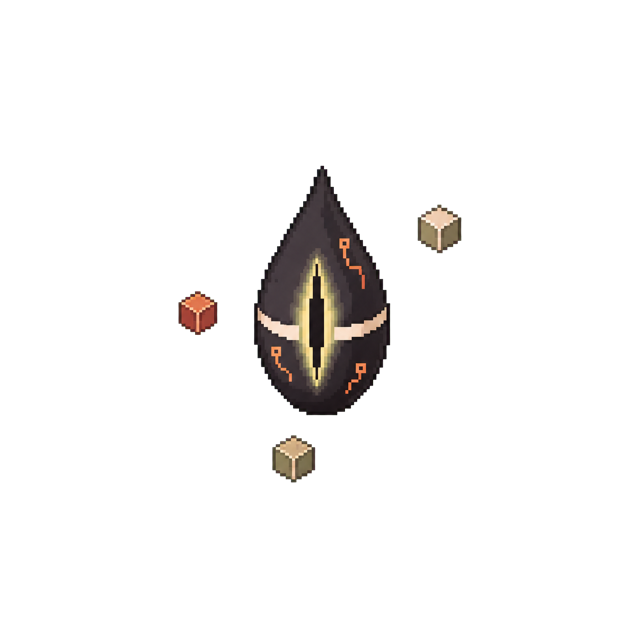
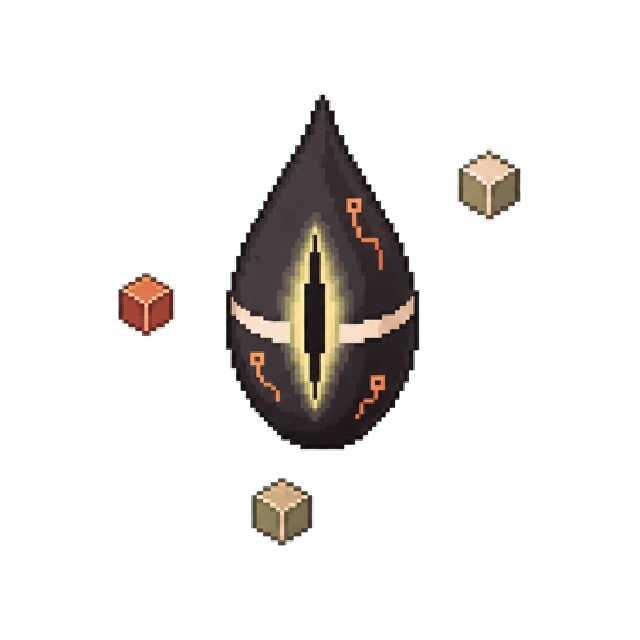
evolution: clean stage sprites, sharpen sealed form names, and save forms review
- Clean 17 chroma-key speckles and outer green fringe on stage-09.png and
  pad it from 568x640 to 640x640 so all 19 sprites share a square canvas.
- Nearest-neighbor rescale stage-18.png (The Singularity, +site/public
  stage-18.webp) and stage-01.png (Bitling) for stronger visual presence.
- Eliminate repeated prefixes (Context x3, Token x2, -ling x2) and late-
  game sci-fi drift across 9 sealed forms (03 Prompt Imp, 04 Cache Cub,
  05 Vector Lynx, 07 Agent Hound, 11 Attention Seraph, 12 Latent Core,
  15 Tensor Weaver, 16 Lattice Spire, 17 Gradient Engine); keep all 4
  public forms locked.
- Update manifest.json hashes/dimensions, spec table, dashboard sample
  screenshot, tests, CHANGELOG.md, and save the full review + future art
  redraw briefs in docs/evolution-forms-review-2026-11-24.md.

Changed region(s): [[0.1875, 0.1562, 0.8125, 0.875]]

diff --git a/internal/browsercheck/browsercheck_test.go b/internal/browsercheck/browsercheck_test.go
@@ -794,7 +794,7 @@ const freshnessInvariantJS = `(() => {
 
 // creatureArtInvariantJS verifies the hero .creature-art LCP image loads with
 // explicit manifest dimensions, fetchpriority="high", and zero aspect-ratio
-// distortion across all gated viewports (both 640x640 and stage-09 568x640).
+// distortion across all gated viewports (640x640 across all 19 stages).
 const creatureArtInvariantJS = `(() => {
 	const problems = [];
 	const img = document.querySelector('img.creature-art');
@@ -1276,9 +1276,9 @@ func TestDashboardBrowserSmokeAndAccessibility(t *testing.T) {
 		t.Fatalf("could not restore the desktop viewport: %v", err)
 	}
 
-	// Stage 9 (token-titan, stage-09.png) has natural dimensions 568x640
-	// instead of 640x640; verify its explicit width/height attributes and
-	// distortion-free rendering across all gated viewports.
+	// Stage 9 (token-titan, stage-09.png, previously 568x640 and now padded to
+	// 640x640): verify its explicit width/height attributes and distortion-free
+	// rendering across all gated viewports.
 	t.Run("creature-art-stage9", func(t *testing.T) {
 		stage9Store, err := database.Open(filepath.Join(t.TempDir(), "stage9.db"), smokeCatalog())
 		if err != nil {
@@ -2276,7 +2276,7 @@ func TestDashboardBrowserSmokeAndAccessibility(t *testing.T) {
 			return JSON.stringify(problems);
 		})()`)
 
-		// Resume auto-refresh, focus active .activity-cell, ingest +400 -> 1,000 (Stage 3 Promptling).
+		// Resume auto-refresh, focus active .activity-cell, ingest +400 -> 1,000 (Stage 3 Prompt Imp).
 		if _, err := chromedp.Run(ctx, chromedp.Click("#auto-refresh-toggle")); err != nil {
 			t.Fatalf("resume auto-refresh: %v", err)
 		}
@@ -2297,13 +2297,13 @@ func TestDashboardBrowserSmokeAndAccessibility(t *testing.T) {
 				const p = document.querySelector('.creature-panel');
 				const f = document.querySelector('.form-name');
 				const s = document.querySelector('.sessions-panel');
-				return Boolean(c && c.dataset.display === '1,000' && p && p.dataset.stage === '3' && f && f.textContent === 'Promptling' && s && s.textContent.includes('live-sess-3'));
+				return Boolean(c && c.dataset.display === '1,000' && p && p.dataset.stage === '3' && f && f.textContent === 'Prompt Imp' && s && s.textContent.includes('live-sess-3'));
 			})()`))
 			if err == nil && evolved {
 				break
 			}
 			if time.Now().After(deadline) {
-				t.Fatal("auto-update did not evolve creature to Stage 3 Promptling at 1,000 tokens in time")
+				t.Fatal("auto-update did not evolve creature to Stage 3 Prompt Imp at 1,000 tokens in time")
 			}
 			time.Sleep(150 * time.Millisecond)
 		}

diff --git a/internal/evolution/evolution.go b/internal/evolution/evolution.go
@@ -22,21 +22,21 @@ var forms = []Form{
 	{Stage: 0, Slug: "egg", Name: "Egg", lowerThreshold: 0},
 	{Stage: 1, Slug: "bitling", Name: "Bitling", lowerThreshold: 10},
 	{Stage: 2, Slug: "bytelet", Name: "Bytelet", lowerThreshold: 100},
-	{Stage: 3, Slug: "promptling", Name: "Promptling", lowerThreshold: 1_000},
-	{Stage: 4, Slug: "context-cub", Name: "Context Cub", lowerThreshold: 10_000},
-	{Stage: 5, Slug: "token-scout", Name: "Token Scout", lowerThreshold: 100_000},
+	{Stage: 3, Slug: "prompt-imp", Name: "Prompt Imp", lowerThreshold: 1_000},
+	{Stage: 4, Slug: "cache-cub", Name: "Cache Cub", lowerThreshold: 10_000},
+	{Stage: 5, Slug: "vector-lynx", Name: "Vector Lynx", lowerThreshold: 100_000},
 	{Stage: 6, Slug: "code-caster", Name: "Code Caster", lowerThreshold: 1_000_000},
-	{Stage: 7, Slug: "agent-beast", Name: "Agent Beast", lowerThreshold: 10_000_000},
+	{Stage: 7, Slug: "agent-hound", Name: "Agent Hound", lowerThreshold: 10_000_000},
 	{Stage: 8, Slug: "context-dragon", Name: "Context Dragon", lowerThreshold: 100_000_000},
 	{Stage: 9, Slug: "token-titan", Name: "Token Titan", lowerThreshold: 1_000_000_000},
 	{Stage: 10, Slug: "model-eater", Name: "Model Eater", lowerThreshold: 2_000_000_000},
-	{Stage: 11, Slug: "context-deity", Name: "Context Deity", lowerThreshold: 5_000_000_000},
-	{Stage: 12, Slug: "reality-core", Name: "Reality Core", lowerThreshold: 10_000_000_000},
+	{Stage: 11, Slug: "attention-seraph", Name: "Attention Seraph", lowerThreshold: 5_000_000_000},
+	{Stage: 12, Slug: "latent-core", Name: "Latent Core", lowerThreshold: 10_000_000_000},
 	{Stage: 13, Slug: "inference-leviathan", Name: "Inference Leviathan", lowerThreshold: 20_000_000_000},
 	{Stage: 14, Slug: "parameter-colossus", Name: "Parameter Colossus", lowerThreshold: 50_000_000_000},
-	{Stage: 15, Slug: "world-weaver", Name: "World Weaver", lowerThreshold: 100_000_000_000},
-	{Stage: 16, Slug: "cosmic-architect", Name: "Cosmic Architect", lowerThreshold: 200_000_000_000},
-	{Stage: 17, Slug: "universe-engine", Name: "Universe Engine", lowerThreshold: 500_000_000_000},
+	{Stage: 15, Slug: "tensor-weaver", Name: "Tensor Weaver", lowerThreshold: 100_000_000_000},
+	{Stage: 16, Slug: "lattice-spire", Name: "Lattice Spire", lowerThreshold: 200_000_000_000},
+	{Stage: 17, Slug: "gradient-engine", Name: "Gradient Engine", lowerThreshold: 500_000_000_000},
 	{Stage: 18, Slug: "the-singularity", Name: "The Singularity", lowerThreshold: 1_000_000_000_000},
 }
 

diff --git a/internal/api/server_test.go b/internal/api/server_test.go
@@ -562,7 +562,7 @@ func TestDashboardRendersPopulatedEmptyAndBoundaryEvolutionStages(t *testing.T) 
 		label  string
 	}{
 		{name: "empty egg", tokens: 0, stage: 0, form: "egg", label: "Egg"},
-		{name: "populated context cub", tokens: 12_345, stage: 4, form: "context-cub", label: "Context Cub"},
+		{name: "populated cache cub", tokens: 12_345, stage: 4, form: "cache-cub", label: "Cache Cub"},
 		{name: "before late threshold", tokens: 1_999_999_999, stage: 9, form: "token-titan", label: "Token Titan"},
 		{name: "late threshold", tokens: 2_000_000_000, stage: 10, form: "model-eater", label: "Model Eater"},
 		{name: "final singularity", tokens: 1_000_000_000_000, stage: 18, form: "the-singularity", label: "The Singularity"},
@@ -602,14 +602,10 @@ func TestDashboardRendersPopulatedEmptyAndBoundaryEvolutionStages(t *testing.T) 
 				t.Fatalf("dashboard status = %d, want 200: %s", response.Code, response.Body.String())
 			}
 			body := response.Body.String()
-			wantWidth, wantHeight := 640, 640
-			if test.stage == 9 {
-				wantWidth, wantHeight = 568, 640
-			}
 			for _, want := range []string{
 				fmt.Sprintf(`data-stage="%d"`, test.stage),
 				fmt.Sprintf(`src="/static/tokemon/stage-%02d.png?v=%s"`, test.stage, server.assetVersion),
-				fmt.Sprintf(`width="%d" height="%d" fetchpriority="high"`, wantWidth, wantHeight),
+				`width="640" height="640" fetchpriority="high"`,
 				fmt.Sprintf(`alt="%s, stage %d"`, test.label, test.stage),
 				fmt.Sprintf(`<div class="stage-chip">FORM / %02d</div>`, test.stage),
 			} {

diff --git a/internal/e2e/insights_tokedex_card_test.go b/internal/e2e/insights_tokedex_card_test.go
@@ -116,7 +116,7 @@ var (
 	itcKnownWordRe       = regexp.MustCompile(`(?i)\bknown\b`)
 	itcPositiveTabIdxRe  = regexp.MustCompile(`(?i)\btabindex="[1-9][0-9]*"`)
 	itcSVGGeometryRe     = regexp.MustCompile(`(?i)<(rect|path|polyline|polygon|line)\b`)
-	itcCardStageRe       = regexp.MustCompile(`(?i)(egg|bitling|bytelet|promptling|context cub|token scout|code caster|agent beast|context dragon|token titan)`)
+	itcCardStageRe       = regexp.MustCompile(`(?i)(egg|bitling|bytelet|prompt imp|cache cub|vector lynx|code caster|agent hound|context dragon|token titan)`)
 )
 
 func itcDo(t *testing.T, client *http.Client, method, fullURL string, body []byte, headers map[string]string) (int, http.Header, []byte) {
@@ -1865,9 +1865,9 @@ func TestCardSVG_F24_T1_ReflectsAggregateStageTokensStreakAndSparkline(t *testin
 	_ = itcValidateSVGXML(t, svgBytes)
 	svg := string(svgBytes)
 	svgText := itcExtractSVGText(t, svgBytes)
-	// 1,500 tokens = Stage 3 Promptling.
-	if !strings.Contains(svgText, "Promptling") {
-		t.Fatalf("/api/v1/card.svg missing Stage 3 form name Promptling in SVG <text> (%q):\n%s", svgText, svg)
+	// 1,500 tokens = Stage 3 Prompt Imp.
+	if !strings.Contains(svgText, "Prompt Imp") {
+		t.Fatalf("/api/v1/card.svg missing Stage 3 form name Prompt Imp in SVG <text> (%q):\n%s", svgText, svg)
 	}
 	if !strings.Contains(svgText, "1,500") && !strings.Contains(svgText, "1.5K") {
 		t.Fatalf("/api/v1/card.svg missing formatted lifetime token total 1,500 / 1.5K in SVG <text> (%q):\n%s", svgText, svg)

diff --git a/internal/e2e/pairwise_tier3_test.go b/internal/e2e/pairwise_tier3_test.go
@@ -1441,8 +1441,8 @@ func TestPairwise_F12_F22_F24_CAR205PasswordAuthTokedexDetailAndCardSVG(t *testi
 			}
 		}
 		svgText := itcExtractSVGText(t, svgBytes)
-		if !strings.Contains(svgText, "Promptling") || (!strings.Contains(svgText, "1,700") && !strings.Contains(svgText, "1.7K")) {
-			t.Fatalf("card.svg (%s) missing Promptling or 1,700/1.7K in %q", av.name, svgText)
+		if !strings.Contains(svgText, "Prompt Imp") || (!strings.Contains(svgText, "1,700") && !strings.Contains(svgText, "1.7K")) {
+			t.Fatalf("card.svg (%s) missing Prompt Imp or 1,700/1.7K in %q", av.name, svgText)
 		}
 		if !regexp.MustCompile(`(?:^|\D)3(?:\D|$)`).MatchString(svgText) {
 			t.Fatalf("card.svg (%s) missing streak 3 in %q", av.name, svgText)

diff --git a/internal/system/system_test.go b/internal/system/system_test.go
@@ -186,8 +186,8 @@ func TestTwoAgentSystemFlow(t *testing.T) {
 	if err != nil {
 		t.Fatal(err)
 	}
-	if snapshot.Stage != 4 || snapshot.Form != "context-cub" {
-		t.Fatalf("final evolution = %+v, want stage 4 context-cub", snapshot)
+	if snapshot.Stage != 4 || snapshot.Form != "cache-cub" {
+		t.Fatalf("final evolution = %+v, want stage 4 cache-cub", snapshot)
 	}
 	for _, event := range stored {
 		if event.MachineID != "agent-a" && event.MachineID != "agent-b" {

diff --git a/docs/evolution-forms-review-2026-11-24.md b/docs/evolution-forms-review-2026-11-24.md
@@ -1,0 +1,137 @@
+# Evolution Forms Review & Art Upgrade Plan (2026-11-24)
+
+Full visual, technical, and naming audit of all 19 Tokemon evolution forms
+(`stage-00` through `stage-18`) in `web/static/tokemon/` and
+`internal/evolution/evolution.go`.
+
+## Summary
+
+The shared charcoal, bronze/amber (`#d2a477`), cream-bone, and sage-circuit
+(`#9bbba0`) palette holds together well across the ladder—stages `00`, `02`,
+`05`, `06`, `07`, `08`, `11`, `13`, `15`, and `17` are strong anchors. The
+audit surfaced two buckets of improvements:
+
+1. **Obvious fixes (applied in this pass):**
+   - Cleaned 17 stray pale-green chroma-key speckle artifacts and outer green
+     fringe pixels on `stage-09.png` (`Token Titan`) and padded it from
+     `568×640` to `640×640` so all 19 sprites share a uniform square canvas.
+   - Nearest-neighbor scaled `stage-18.png` (`The Singularity`, `1T`) from
+     `284×318` (`6.7%` fill) to `403×452` (`13.5%` fill) and updated
+     `site/public/tokemon/stage-18.webp` so the final form carries real weight
+     while keeping its quiet teardrop minimalism mirroring `00 Egg`.
+   - Gently nearest-neighbor scaled `stage-01.png` (`Bitling`, `10`) from
+     `210×228` (`8.1%` fill) to `262×285` (`12.6%` fill) for better readability
+     on small cards while staying noticeably smaller than `Egg` and `Bytelet`.
+   - Eliminated repeated prefixes (`Context` ×3, `Token` ×2, `-ling` ×2) and
+     late-game generic sci-fi drift (`12`, `15`, `16`, `17`) across sealed
+     forms while leaving the 4 public marketing-site forms (`00 Egg`,
+     `08 Context Dragon`, `13 Inference Leviathan`, `18 The Singularity`)
+     untouched.
+2. **Future art redraws (tracked below for a dedicated art pass):**
+   - `stage-04.png` (`Cache Cub`): pixel-art style alignment with `03`/`05`.
+   - `stage-10.png` (`Model Eater`) and `stage-12.png` (`Latent Core`): break
+     the near-duplicate "almond eye + 4 radial fins" silhouette trio (`10/11/12`).
+   - `stage-16.png` (`Lattice Spire`): optional entity redraw if we ever want
+     an *Architect* character rather than a living citadel monument.
+
+## Full 19-Form Roster Audit
+
+| Stage | Threshold | Previous Name | Current Name | Public? | Canvas / BBox (after pass) | Visual & Naming Notes |
+| ---: | ---: | --- | --- | --- | --- | --- |
+| 00 | 0 | Egg | **Egg** | Public | `640×640` (`330×375`) | Iconic opener; keep locked. |
+| 01 | 10 | Bitling | **Bitling** | Sealed | `640×640` (`262×285`) | Scaled `1.25×` via nearest-neighbor for mobile legibility. |
+| 02 | 100 | Bytelet | **Bytelet** | Sealed | `640×640` (`327×316`) | Strong pixel-beetle sprite and name. |
+| 03 | 1K | Promptling | **Prompt Imp** | Sealed | `640×640` (`399×430`) | Removed `-ling` repeat after `Bitling`; fits the big-eared imp sprite. |
+| 04 | 10K | Context Cub | **Cache Cub** | Sealed | `640×640` (`385×397`) | Removed 1st duplicate `Context`. **Art redraw candidate** (origami style break). |
+| 05 | 100K | Token Scout | **Vector Lynx** | Sealed | `640×640` (`391×387`) | Removed duplicate `Token`; matches the sleek feline-circuit sprite. |
+| 06 | 1M | Code Caster | **Code Caster** | Sealed | `640×640` (`463×490`) | Great match for the 4-armed floating rune caster. |
+| 07 | 10M | Agent Beast | **Agent Hound** | Sealed | `640×640` (`531×515`) | Sharper than generic `Beast`; matches the armored circuit-hound sprite. |
+| 08 | 100M | Context Dragon | **Context Dragon** | Public | `640×640` (`363×561`) | Standout sprite and hero mascot; keep locked. |
+| 09 | 1B | Token Titan | **Token Titan** | Sealed | `640×640` (`529×612`) | Now the sole `Token` name; cleaned 17 chroma speckles + green fringe, padded to `640×640`. |
+| 10 | 2B | Model Eater | **Model Eater** | Sealed | `640×640` (`441×504`) | Strong name. **Art redraw candidate** (currently a passive eye-shield, duplicate of `12`). |
+| 11 | 5B | Context Deity | **Attention Seraph** | Sealed | `640×640` (`481×533`) | Removed 3rd duplicate `Context`; nails the multi-eyed 6-window seraph art. |
+| 12 | 10B | Reality Core | **Latent Core** | Sealed | `640×640` (`538×528`) | Anchored back to AI theme. **Art redraw candidate** (breaks `10/11/12` silhouette repeat). |
+| 13 | 20B | Inference Leviathan | **Inference Leviathan** | Public | `640×640` (`575×545`) | S-tier cosmic serpent and name; keep locked. |
+| 14 | 50B | Parameter Colossus | **Parameter Colossus** | Sealed | `640×640` (`571×603`) | Strong bronze golem and LLM name (also featured in `site/public/og.png`). |
+| 15 | 100B | World Weaver | **Tensor Weaver** | Sealed | `640×640` (`422×588`) | Replaced generic sci-fi name; matches the glowing-tendril celestial jellyfish. |
+| 16 | 200B | Cosmic Architect | **Lattice Spire** | Sealed | `640×640` (`402×625`) | Aligned name with the living obsidian-circuit cathedral spire art. |
+| 17 | 500B | Universe Engine | **Gradient Engine** | Sealed | `640×640` (`551×586`) | Replaced generic sci-fi name; matches the spinning cosmic dynamo wheel. |
+| 18 | 1T | The Singularity | **The Singularity** | Public | `640×640` (`403×452`) | Scaled `1.42×` via nearest-neighbor so 1T feels monumental while echoing `00 Egg`. |
+
+Every stage now owns a distinct computing/AI root with zero repeated prefixes:
+`Egg`, `Bit`, `Byte`, `Prompt`, `Cache`, `Vector`, `Code`, `Agent`, `Context`,
+`Token`, `Model`, `Attention`, `Latent`, `Inference`, `Parameter`, `Tensor`,
+`Lattice`, `Gradient`, `Singularity`.
+
+## Future Art Redraw Briefs
+
+Keep these style invariants for any replacement sprite (see also `STYLE_GUIDE.md`
+and `docs/evolution-art-qa.md`):
+
+- **Palette:** charcoal obsidian body (`#1d201b`–`#2f332c`), muted sage
+  circuitry/glow (`#9bbba0` / `#5f7a63`), weathered copper-amber trim
+  (`#d2a477` / `#9a6a43`), cream-bone highlights (`#f0ede5`). No neon cyan,
+  magenta, or bright primary yellow.
+- **Rendering:** crisp chunky pixel clusters with clean 1px dark outlines, flat
+  `#00ff00` chroma-key background converted via `tools/chromakey`, centered on a
+  `640×640` 8-bit RGBA transparent canvas with zero semi-transparent green
+  fringe.
+- **Originality:** strictly original field-guide forms—zero franchise creatures,
+  badges, or interface motifs.
+
+### Priority 1: `stage-04.png` — Cache Cub (10K)
+
+- **Problem:** Only sprite rendered in smooth-shaded low-poly/origami style;
+  missing copper/amber body trim; harsh bright-yellow floating square above the
+  head; anime-style puppy eyes that break continuity between `03 Prompt Imp` and
+  `05 Vector Lynx`.
+- **Target design:** Stocky quadruped pixel-art cub built from weathered
+  charcoal plates, warm copper collar/ankle trim, sage-green etched circuit
+  plates along its back (visual bridge from `02 Bytelet`'s shell and `03`'s
+  pixel face into `05 Vector Lynx`), with crisp pixel eyes matching `05`.
+
+### Priority 2: `stage-10.png` — Model Eater (2B)
+
+- **Problem:** Shares the exact vertical-almond + central-eye + 4-fin silhouette
+  with `11 Attention Seraph` and `12 Latent Core`, and looks passive rather than
+  predatory.
+- **Target design:** A predatory cosmic/abyssal creature or armored ringed maw
+  with segmented bronze jaws opening around a dark sage singularity throat,
+  pulling fractured token cubes and model shards inward. Distinct horizontal or
+  angled predatory silhouette between upright `09 Token Titan` and symmetrical
+  `11 Attention Seraph`.
+
+### Priority 3: `stage-12.png` — Latent Core (10B)
+
+- **Problem:** Near-duplicate of `stage-10.png` (vertical eye almond + 4 corner
+  blades + orbiting cubes).
+- **Target design:** Interlocking nested gyroscopic astrolabe rings (weathered
+  bone and copper) surrounding a suspended geometric icosahedral/octahedral sage
+  crystal core—unmistakably a *Core* and visually distinct from `11 Attention
+  Seraph`'s vertical eye-and-tablets silhouette.
+
+### Optional: `stage-16.png` — Lattice Spire (200B)
+
+- **Current state:** Renaming `Cosmic Architect` to `Lattice Spire` resolves the
+  art/name mismatch immediately.
+- **Optional future direction:** If we later prefer an entity over a living
+  monument at 200B, redraw as an elongated celestial cloaked/geometric builder
+  weaving a floating wireframe lattice (evolutionary echo of `09 Token Titan`)
+  and rename to `Lattice Architect` or `Epoch Architect`.
+
+## Post-Redraw Verification Checklist
+
+After replacing any `web/static/tokemon/stage-NN.png`:
+
+1. Update SHA-256 and dimensions in `web/static/tokemon/manifest.json`.
+2. Regenerate the matching 16×16 silhouette in `site/app/_components/silhouettes.ts`
+   if a sealed stage's outline changed (and regenerate `site/public/tokemon/stage-NN.webp`
+   only for the 4 public forms `00`, `08`, `13`, `18`).
+3. Run the art and test gates:
+
+```bash
+go run ./cmd/tokemon art validate --dir web/static/tokemon
+go test ./internal/art ./internal/evolution ./internal/api ./internal/system -count=1
+TOKEMON_BROWSER_SMOKE=1 go test ./internal/browsercheck -v -count=1
+cd site && npm run lint && npm test
+```

diff --git a/docs/tokemon-spec-v0.2.md b/docs/tokemon-spec-v0.2.md
@@ -169,21 +169,21 @@ The initial progression:
 | 0–9 | 0 | Egg |
 | 10–99 | 1 | Bitling |
 | 100–999 | 2 | Bytelet |
-| 1,000–9,999 | 3 | Promptling |
-| 10,000–99,999 | 4 | Context Cub |
-| 100,000–999,999 | 5 | Token Scout |
+| 1,000–9,999 | 3 | Prompt Imp |
+| 10,000–99,999 | 4 | Cache Cub |
+| 100,000–999,999 | 5 | Vector Lynx |
 | 1M–9.99M | 6 | Code Caster |
-| 10M–99.99M | 7 | Agent Beast |
+| 10M–99.99M | 7 | Agent Hound |
 | 100M–999.99M | 8 | Context Dragon |
 | 1B–1.99B | 9 | Token Titan |
 | 2B–4.99B | 10 | Model Eater |
-| 5B–9.99B | 11 | Context Deity |
-| 10B–19.99B | 12 | Reality Core |
+| 5B–9.99B | 11 | Attention Seraph |
+| 10B–19.99B | 12 | Latent Core |
 | 20B–49.99B | 13 | Inference Leviathan |
 | 50B–99.99B | 14 | Parameter Colossus |
-| 100B–199.99B | 15 | World Weaver |
-| 200B–499.99B | 16 | Cosmic Architect |
-| 500B–999.99B | 17 | Universe Engine |
+| 100B–199.99B | 15 | Tensor Weaver |
+| 200B–499.99B | 16 | Lattice Spire |
+| 500B–999.99B | 17 | Gradient Engine |
 | 1T+ | 18 | The Singularity |
 
 These names are working copy, not hard product terminology. The visual form and stage number matter more than the labels.

diff --git a/CHANGELOG.md b/CHANGELOG.md
@@ -1,3 +1,18 @@
+## Unreleased
+
+### Changed
+
+- **Evolution forms naming and sprite cleanup pass.** Eliminated repeated
+  prefixes and late-game sci-fi drift across 9 sealed evolution forms (`03
+  Prompt Imp`, `04 Cache Cub`, `05 Vector Lynx`, `07 Agent Hound`, `11 Attention
+  Seraph`, `12 Latent Core`, `15 Tensor Weaver`, `16 Lattice Spire`, `17
+  Gradient Engine`) while keeping all 4 public forms unchanged. Cleaned 17
+  chroma-key speckle artifacts and green fringe pixels from `stage-09.png` and
+  padded it from `568×640` to `640×640` for a uniform square canvas across all
+  19 stages; rescaled `stage-18.png` (`The Singularity`, +`stage-18.webp`) and
+  `stage-01.png` (`Bitling`) cleanly via nearest-neighbor for better presence
+  and readability. See `docs/evolution-forms-review-2026-11-24.md`.
+
 ## 0.5.0
 
 A major speed, UI/UX, and utility release: split SQLite read/write pools with
